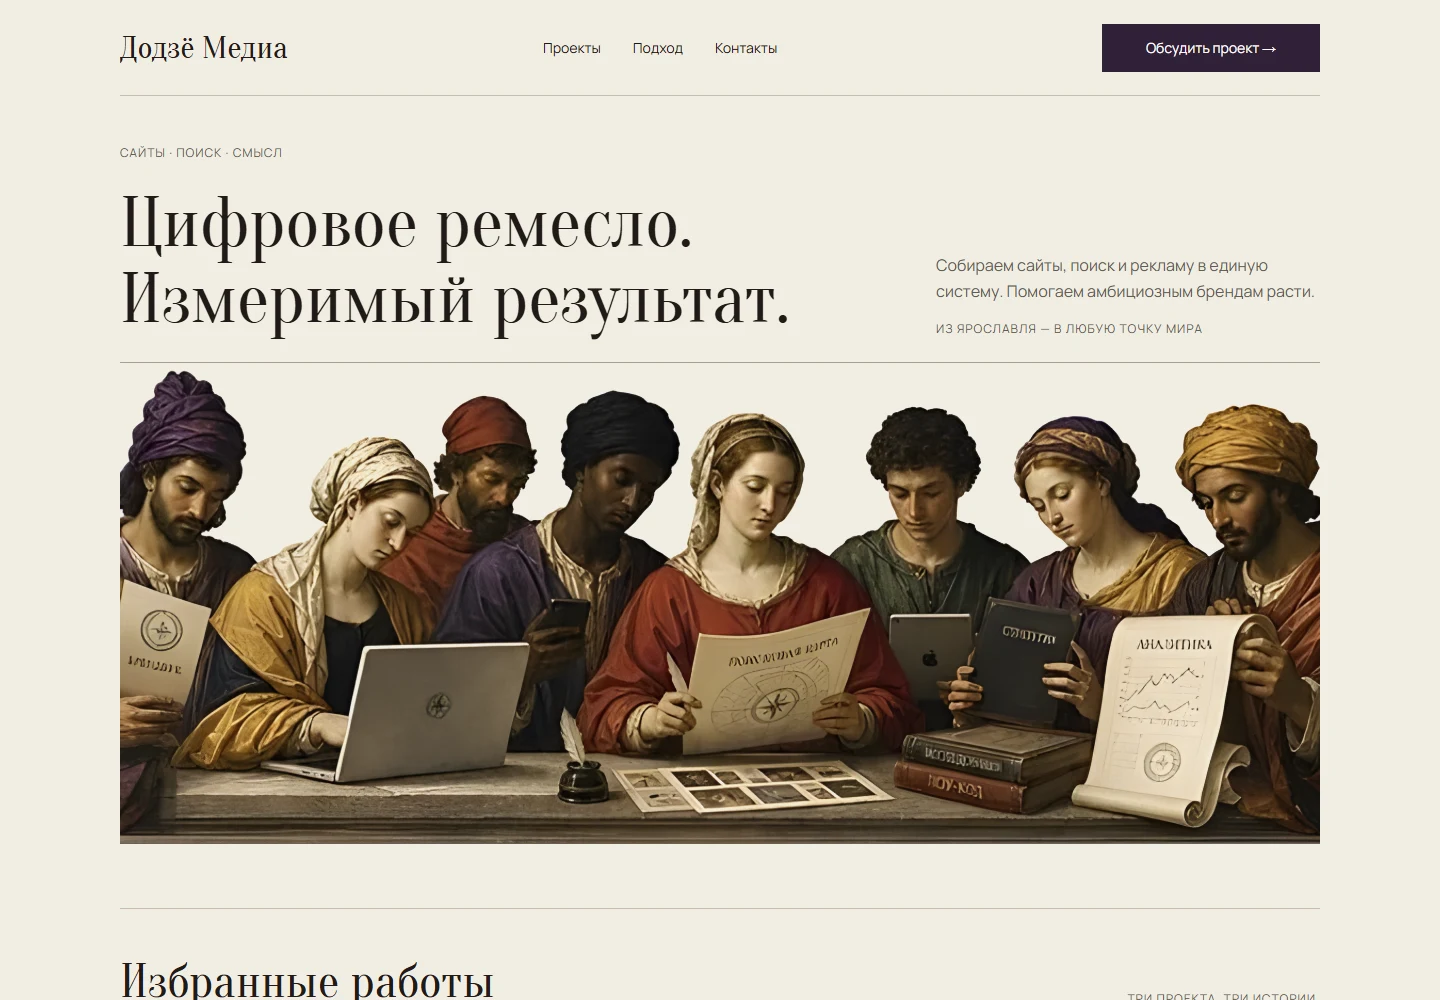
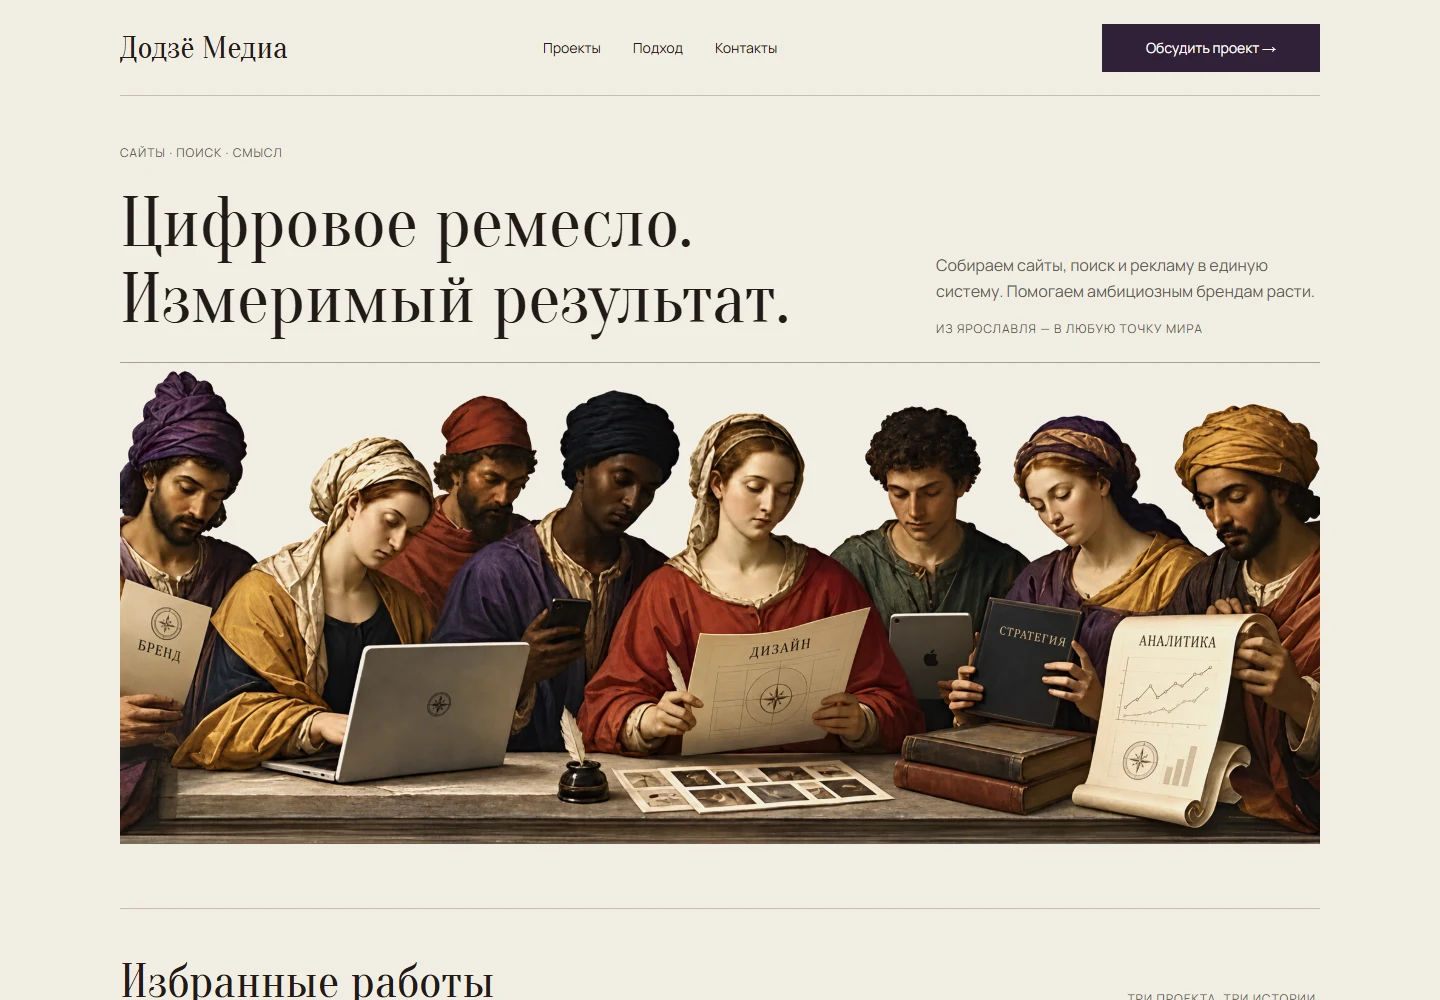
Add project request dialog and selected workshop illustration

diff --git a/dojo-media/src/ContactDialog.tsx b/dojo-media/src/ContactDialog.tsx
@@ -1,0 +1,115 @@
+import { useEffect, useRef, useState, type FormEvent } from "react";
+import { CONTACT_HREF } from "./services/actions";
+import "./contact-dialog.css";
+
+function normalizePhone(value: string) {
+  const digits = value.replace(/\D/g, "");
+  if (digits.length === 10) return "+7" + digits;
+  if (digits.length === 11 && /^[78]/.test(digits)) return "+7" + digits.slice(1);
+  return null;
+}
+
+export function ContactDialog({ open, onClose, opener }: { open: boolean; onClose: () => void; opener: HTMLElement | null }) {
+  const dialog = useRef<HTMLDialogElement>(null);
+  const nameInput = useRef<HTMLInputElement>(null);
+  const phoneInput = useRef<HTMLInputElement>(null);
+  const backdropDown = useRef(false);
+  const [fullName, setFullName] = useState("");
+  const [phone, setPhone] = useState("");
+  const [errors, setErrors] = useState<{ fullName?: string; phone?: string }>({});
+  const [draft, setDraft] = useState("");
+
+  useEffect(() => {
+    if (!open || !dialog.current) return;
+    const element = dialog.current;
+    const previousFocus = opener || (document.activeElement instanceof HTMLElement ? document.activeElement : null);
+    const savedOverflow = document.body.style.overflow;
+    const savedPadding = document.body.style.paddingRight;
+    const scrollbar = window.innerWidth - document.documentElement.clientWidth;
+    document.body.style.paddingRight = parseFloat(getComputedStyle(document.body).paddingRight) + scrollbar + "px";
+    document.body.style.overflow = "hidden";
+    setDraft("");
+    setErrors({});
+    element.showModal();
+    nameInput.current?.focus({ preventScroll: true });
+    return () => {
+      element.close();
+      document.body.style.overflow = savedOverflow;
+      document.body.style.paddingRight = savedPadding;
+      if (previousFocus?.isConnected && previousFocus.getClientRects().length && !previousFocus.closest("[inert]")) previousFocus.focus({ preventScroll: true });
+      else document.querySelector<HTMLButtonElement>(".menu-toggle")?.focus({ preventScroll: true });
+    };
+  }, [open, opener]);
+
+  const prepareRequest = (event: FormEvent<HTMLFormElement>) => {
+    event.preventDefault();
+    const name = fullName.trim().replace(/\s+/g, " ");
+    const normalized = normalizePhone(phone);
+    const next: typeof errors = {};
+    if (!/^[\p{L}][\p{L}\p{M} '\u2019-]*$/u.test(name) || name.split(" ").length < 2)
+      next.fullName = "Укажите фамилию и имя. Отчество — если есть.";
+    if (!normalized || /[^\d+()\s.\-]/.test(phone))
+      next.phone = "Введите номер целиком, например +7 (999) 123-45-67.";
+    setErrors(next);
+    if (next.fullName || next.phone) {
+      (next.fullName ? nameInput : phoneInput).current?.focus();
+      return;
+    }
+    const body = "Здравствуйте! Хочу обсудить проект.\n\nФИО: " + name + "\nТелефон: " + normalized;
+    setDraft(CONTACT_HREF + "?subject=" + encodeURIComponent("Обсудить проект — Додзё Медиа") + "&body=" + encodeURIComponent(body));
+  };
+
+  return (
+    <dialog
+      className="contact-dialog"
+      ref={dialog}
+      aria-labelledby="request-title"
+      aria-describedby="request-description"
+      onCancel={(event) => { event.preventDefault(); onClose(); }}
+      onClose={onClose}
+      onKeyDown={(event) => {
+        if (event.key !== "Tab") return;
+        const controls = [...event.currentTarget.querySelectorAll<HTMLElement>("button:not([disabled]), input:not([disabled]), a[href]")].filter((element) => element.getClientRects().length);
+        const first = controls[0], last = controls[controls.length - 1];
+        if (event.shiftKey && document.activeElement === first) { event.preventDefault(); last?.focus(); }
+        else if (!event.shiftKey && document.activeElement === last) { event.preventDefault(); first?.focus(); }
+      }}
+      onPointerDown={(event) => { backdropDown.current = event.target === event.currentTarget && outside(event.clientX, event.clientY); }}
+      onClick={(event) => { if (backdropDown.current && event.target === event.currentTarget && outside(event.clientX, event.clientY)) onClose(); backdropDown.current = false; }}
+    >
+      <button className="request-close" type="button" onClick={onClose} aria-label="Закрыть форму заявки">
+        <svg width="20" height="20" viewBox="0 0 24 24" aria-hidden="true"><path d="m6 6 12 12M18 6 6 18" fill="none" stroke="currentColor" strokeWidth="1.5" /></svg>
+      </button>
+      <h2 id="request-title">Обсудим проект</h2>
+      <p id="request-description">Начнём со знакомства. Расскажите, как к вам обращаться и по какому номеру связаться.</p>
+      <form onSubmit={prepareRequest} noValidate>
+        <div className="request-field">
+          <label htmlFor="request-name">Фамилия, имя и отчество</label>
+          <input ref={nameInput} id="request-name" name="fullName" autoComplete="name" placeholder="Иванов Иван Иванович" maxLength={120} required value={fullName} aria-invalid={Boolean(errors.fullName)} aria-describedby={errors.fullName ? "request-name-error" : undefined}
+            onChange={(event) => { setFullName(event.target.value); setErrors((value) => ({...value,fullName:undefined})); setDraft(""); }} />
+          {errors.fullName && <p className="request-error" role="alert" id="request-name-error">{errors.fullName}</p>}
+        </div>
+        <div className="request-field">
+          <label htmlFor="request-phone">Номер телефона</label>
+          <input ref={phoneInput} id="request-phone" name="phone" type="tel" inputMode="tel" autoComplete="tel" placeholder="+7 (999) 123-45-67" maxLength={24} required value={phone} aria-invalid={Boolean(errors.phone)} aria-describedby={errors.phone ? "request-phone-error" : undefined}
+            onChange={(event) => { setPhone(event.target.value); setErrors((value) => ({...value,phone:undefined})); setDraft(""); }} />
+          {errors.phone && <p className="request-error" role="alert" id="request-phone-error">{errors.phone}</p>}
+        </div>
+        {draft ? (
+          <div className="request-ready" role="status">
+            <p>Письмо готово. Отправьте его из вашей почты — имя и телефон уже будут внутри.</p>
+            <a className="request-submit" href={draft}>Открыть почту <span aria-hidden="true">→</span></a>
+          </div>
+        ) : (
+          <button className="request-submit" type="submit">Подготовить заявку <span aria-hidden="true">→</span></button>
+        )}
+        <p className="request-note">Контакты попадут в письмо для hello@dojo-media.com. До отправки письма данные остаются только в этой форме.</p>
+      </form>
+    </dialog>
+  );
+
+  function outside(x: number, y: number) {
+    const rect = dialog.current!.getBoundingClientRect();
+    return x < rect.left || x > rect.right || y < rect.top || y > rect.bottom;
+  }
+}

diff --git a/dojo-media/src/contact-dialog.css b/dojo-media/src/contact-dialog.css
@@ -1,0 +1,20 @@
+.contact-dialog{width:min(640px,calc(100vw - 48px));max-width:none;max-height:calc(100dvh - 48px);margin:auto;padding:56px;border:0;border-radius:0;background:var(--paper);color:var(--ink);overflow:auto;overscroll-behavior:contain;
+box-shadow:0 24px 100px #211b1840; /* taste-skill-ignore: shadow on a floating modal dialog, allowed by the skill */
+}
+.contact-dialog::backdrop{background:#211b18a6}
+.contact-dialog[open]{animation:request-appear 260ms var(--ease-out) both}
+.request-close{position:absolute;right:16px;top:16px;display:grid;place-items:center;width:44px;height:44px;padding:0;border:0;background:transparent;color:var(--ink);cursor:pointer;transition:background-color 160ms ease,transform 160ms ease}
+.request-close:hover{background:var(--hover)}.request-close:active{transform:scale(.94)}
+.contact-dialog h2{max-width:none;font-size:52px;line-height:1.03;letter-spacing:-.02em;margin-bottom:20px}
+.contact-dialog #request-description{max-width:43ch;font-size:16px;line-height:1.6;margin-bottom:32px}
+.contact-dialog form{display:flex;flex-direction:column;gap:24px}
+.request-field{display:flex;flex-direction:column;gap:10px}.request-field label{font-size:14px;line-height:1.5}
+.request-field input{width:100%;min-width:0;min-height:56px;padding:14px 16px;border:1px solid var(--line);border-radius:0;background:#f8f5ee;color:var(--ink);font:inherit;font-size:16px;line-height:24px;transition:border-color 160ms ease,background-color 160ms ease}
+.request-field input::placeholder{color:var(--muted);opacity:1}.request-field input:hover{border-color:var(--muted)}.request-field input:focus-visible{outline:2px solid var(--accent);outline-offset:3px;background:#fff}.request-field input[aria-invalid=true]{border-color:#9b3030}
+.request-error{font-size:14px;line-height:1.5;color:#9b3030}
+.request-submit{display:flex;align-items:center;justify-content:space-between;gap:16px;min-height:56px;width:100%;padding:16px 20px;border:0;border-radius:0;background:var(--accent);color:#fff;font-family:inherit;font-size:16px;line-height:24px;cursor:pointer;transition:background-color 160ms ease,transform 160ms ease}
+.request-submit:hover{background:var(--ink)}.request-submit:active{transform:translateY(1px)}.request-submit:focus-visible,.request-close:focus-visible{outline:2px solid var(--accent);outline-offset:4px}
+.request-note{font-size:13px;line-height:1.6;color:var(--muted)}.request-ready{display:flex;flex-direction:column;gap:16px}.request-ready p{font-size:16px;line-height:1.6}
+@keyframes request-appear{from{opacity:0;transform:translateY(12px)}to{opacity:1;transform:none}}
+@media(max-width:600px){.contact-dialog{width:calc(100vw - 32px);max-height:calc(100dvh - 32px);padding:56px 24px 28px}.contact-dialog h2{font-size:38px;max-width:none;margin-bottom:16px}.contact-dialog #request-description{margin-bottom:24px}.contact-dialog form{gap:22px}.request-close{top:8px;right:8px}}
+@media(prefers-reduced-motion:reduce){.contact-dialog[open]{animation:none}.request-submit:active,.request-close:active{transform:none}.contact-dialog *{transition:none}}

diff --git a/dojo-media/src/App.tsx b/dojo-media/src/App.tsx
@@ -1,11 +1,14 @@
 import {
   lazy,
+  createContext,
+  useContext,
   Suspense,
   useEffect,
   useRef,
   useState,
   type MouseEvent,
 } from "react";
+import { ContactDialog } from "./ContactDialog";
 import { CONTACT_HREF, openProject } from "./services/actions";
 import type { ProjectId } from "./services/mockApi";
 import { usePageMotion } from "./motion";
@@ -49,11 +52,14 @@ const projects: {
   },
 ];
 
+const RequestContext = createContext<(opener: HTMLButtonElement) => void>(() => {});
+
 function ContactButton({ onClick }: { onClick?: () => void }) {
+  const openRequest = useContext(RequestContext);
   return (
-    <a className="contact-button" href={CONTACT_HREF} onClick={onClick}>
+    <button className="contact-button" type="button" aria-haspopup="dialog" onClick={(event) => { onClick?.(); openRequest(event.currentTarget); }}>
       Обсудить проект →
-    </a>
+    </button>
   );
 }
 
@@ -204,12 +210,15 @@ function ProjectCard({
 export function App() {
   usePageMotion();
   const [error, setError] = useState("");
+  const [requestOpen, setRequestOpen] = useState(false);
+  const requestTrigger = useRef<HTMLButtonElement>(null);
   useEffect(() => {
     if (!error) return;
     const timeout = window.setTimeout(() => setError(""), 6000);
     return () => window.clearTimeout(timeout);
   }, [error]);
   return (
+    <RequestContext.Provider value={(opener) => { requestTrigger.current = opener; setRequestOpen(true); }}>
     <div className="page-shell">
       <a className="skip-link" href="#main">
         К содержимому
@@ -236,10 +245,10 @@ export function App() {
             fallback={
               <div className="hero-media">
                 <img
-                  src={`${import.meta.env.BASE_URL}assets/workshop.png`}
+                  src={`${import.meta.env.BASE_URL}assets/workshop-selected.png`}
                   alt="Мастерская Додзё Медиа: мастера за общим столом с ноутбуками и проектами"
-                  width="2252"
-                  height="904"
+                  width="1978"
+                  height="795"
                   fetchPriority="high"
                 />
               </div>
@@ -283,6 +292,7 @@ export function App() {
           <p>Мастерство начинается с деталей.</p>
         </div>
       </footer>
+      <ContactDialog opener={requestTrigger.current} open={requestOpen} onClose={() => setRequestOpen(false)} />
       {error && (
         <div className="toast" role="alert">
           <span>{error}</span>
@@ -296,5 +306,6 @@ export function App() {
         </div>
       )}
     </div>
+    </RequestContext.Provider>
   );
 }

diff --git a/dojo-media/src/WorkshopHero.tsx b/dojo-media/src/WorkshopHero.tsx
@@ -11,11 +11,11 @@ import {
 import { useReducedMotion } from "./motion";
 
 const DURATION = 36;
-const SOURCE = `${import.meta.env.BASE_URL}assets/workshop.png`;
+const SOURCE = `${import.meta.env.BASE_URL}assets/workshop-selected.png`;
 const DESCRIPTION =
   "Мастерская Додзё Медиа: мастера за общим столом с ноутбуками и проектами";
 
-/** Original Figma image, cropped to the current Figma layout and settled in 0.9 seconds. */
+/** Selected workshop illustration, cropped to the hero layout and settled in 0.9 seconds. */
 export function WorkshopComposition() {
   const frame = useCurrentFrame();
   const { fps } = useVideoConfig();
@@ -106,8 +106,8 @@ export function WorkshopHero() {
         <img
           src={SOURCE}
           alt=""
-          width="2252"
-          height="904"
+          width="1978"
+          height="795"
           fetchPriority="high"
         />
       ) : (

diff --git a/dojo-media/src/styles.css b/dojo-media/src/styles.css
@@ -124,6 +124,9 @@ footer {
   text-decoration: underline;
 }
 .contact-button {
+  border: 0;
+  border-radius: 0;
+  cursor: pointer;
   display: inline-flex;
   justify-content: center;
   align-items: center;

diff --git a/README.md b/README.md
@@ -30,12 +30,14 @@
 
 ### «Додзё Медиа»: сохранена композиция, добавлена браузерная адаптация
 
+После объединения по запросу пользователя добавлена форма ФИО/телефона поверх страницы по кнопкам «Обсудить проект» и установлена выбранная им иллюстрация workshop-selected.png. Она заменяет изображение из Figma; исходник сохранён. Форма подготавливает письмо для почтового приложения, без серверной отправки.
+
 Основа сравнения — фреймы 559:95 (1440 × 1672), 559:143 (390 × 2232,25) и 559:187 (мобильное раскрытое меню), перечисленные в [dojo-media/README.md](dojo-media/README.md).
 
-- **Основное оформление сохранено.** Кремовый фон, фиолетовый акцент, Oranienbaum и Manrope, исходные изображения, тонкие разделители, три проектные карточки и структура секций соответствуют принятому локальному макету. Общая тёмная галерея не переносит свои стили внутрь этого сайта.
+- **Основное оформление сохранено.** Кремовый фон, фиолетовый акцент, Oranienbaum и Manrope, изображения проектов, тонкие разделители, три проектные карточки и структура секций соответствуют принятому локальному макету. Общая тёмная галерея не переносит свои стили внутрь этого сайта.
 - **Промежуточные ширины адаптированы самостоятельно.** По локальному отчёту, отдельного планшетного фрейма не было. До 900 px применяется мобильная композиция с шириной содержимого до 600 px; на 901–1279 px уменьшается типографика и сохраняются три карточки в ряд. На 320 px заголовок контактов переносится на две строки. Это решения для размеров между исходными экранами, а не точное воспроизведение отдельного Figma-фрейма.
 - **Иллюстрация мастерской анимирована через Remotion.** Она сдвигается на 8 px и приходит в исходное положение за 0,9 секунды. В финальном кадре композиция возвращается к статическому изображению; при reduced motion сразу показывается неподвижный оригинал. Добавлены также короткие появления текста и карточек.
-- **Согласован фон иллюстрации.** К изображению мастерской и плееру применяется mix-blend-mode: darken, чтобы светлая подложка изображения сочеталась с фоном страницы. Исходный файл картинки не изменён, но её отображение учитывает цвет подложки.
+- **Согласован фон иллюстрации.** К изображению мастерской и плееру применяется mix-blend-mode: darken, чтобы светлая подложка изображения сочеталась с фоном страницы. Исходный файл сохранён; отображение выбранной иллюстрации учитывает цвет подложки.
 - **Убрана белая подложка иконки мобильного меню.** В текущем варианте иконка находится на фоне страницы; это исправление зафиксировано в локальном README.
 - **Есть дополнительные состояния взаимодействия.** Loading/disabled карточек, демонстрационное уведомление об ошибке и видимый клавиатурный фокус появляются при действиях пользователя. Они не видны на обычном неподвижном экране макета.
 
